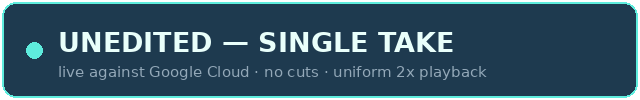
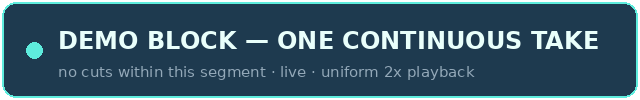
fix(grabacion): el rotulo deja de decir UNEDITED — lo tumbo el disidente y tenia razon
'UNEDITED' es una afirmacion ABSOLUTA puesta sobre un video cuyo envoltorio si esta
editado. Un jurado adversarial lee la palabra grande, ve un fundido dos minutos despues,
y la defensa se vuelve acusacion. Ahora dice DEMO BLOCK — ONE CONTINUOUS TAKE.

Y acelerar deja de ser el primer recurso: comprimir la espera destruye la prueba que esa
espera aporta. Primero se recorta el envoltorio, luego contenido; acelerar es el tercero.
Nueva §5.2: mostrar, no proclamar — proyecto, region y reloj visibles en pantalla.

Claude-Session: https://claude.ai/code/session_01Adjgsd6F8n8EyAgaKZ5oZC

Changed region(s): [[0.0938, 0.3, 0.9375, 0.54], [0.0938, 0.66, 0.7812, 0.81]]

diff --git a/assets/slides/generar_rotulos.py b/assets/slides/generar_rotulos.py
@@ -43,17 +43,34 @@ def rotulo(destino: Path, titulo: str, pie: str) -> None:
     d.rounded_rectangle([2, 2, ANCHO - 3, ALTO - 3], radius=14, fill=FONDO, outline=BORDE, width=2)
     # El punto de grabación: lo mismo que enseña cualquier cámara, y se lee sin idioma.
     d.ellipse([26, 42, 42, 58], fill=BORDE)
-    d.text((58, 26), titulo, font=ImageFont.truetype(NEGRITA, 27), fill=TITULO)
-    d.text((58, 63), pie, font=ImageFont.truetype(NORMAL, 15), fill=PIE)
+    # El cuerpo se ajusta al ancho disponible en vez de fijarse: al cambiar el texto del rótulo
+    # por uno más largo, el título se salía de la caja y la última palabra quedaba cortada en
+    # cámara. Un rótulo recortado dice justo lo contrario de lo que el rótulo viene a decir.
+    def cabe(texto, ruta, tope, maximo):
+        for cuerpo in range(maximo, 8, -1):
+            f = ImageFont.truetype(ruta, cuerpo)
+            if d.textlength(texto, font=f) <= tope:
+                return f
+        return ImageFont.truetype(ruta, 9)
+
+    disponible = ANCHO - 58 - 20
+    d.text((58, 26), titulo, font=cabe(titulo, NEGRITA, disponible, 27), fill=TITULO)
+    d.text((58, 63), pie, font=cabe(pie, NORMAL, disponible, 15), fill=PIE)
     im.save(destino)
     print(f"  {destino.name}  ({ANCHO}×{ALTO})  «{titulo}» · «{pie}»")
 
 
 if __name__ == "__main__":
     v = sys.argv[1] if len(sys.argv) > 1 else "2"
+    # POR QUÉ NO DICE «UNEDITED», que es lo que decía hasta el 2026-08-30. Lo tumbó el disidente
+    # externo, y tenía razón: es una afirmación ABSOLUTA colocada sobre un vídeo cuyo envoltorio
+    # —títulos, diagrama, fundidos— sí está editado. Un jurado adversarial no lee el matiz «no
+    # cuts INSIDE this block»: lee la palabra grande, ve un fundido dos minutos después, y la
+    # defensa se convierte en una acusación contra uno mismo. El rótulo ahora dice exactamente
+    # qué cubre —este bloque— y deja de proclamar lo que no puede prometer del vídeo entero.
     rotulo(AQUI / "rotulo_toma_unica.png",
-           "UNEDITED — SINGLE TAKE",
-           "live against Google Cloud · no cuts inside this block")
+           "DEMO BLOCK — ONE CONTINUOUS TAKE",
+           "no cuts within this segment · live against Google Cloud")
     rotulo(AQUI / "rotulo_toma_unica_acelerado.png",
-           "UNEDITED — SINGLE TAKE",
-           f"live against Google Cloud · no cuts · uniform {v}x playback")
+           "DEMO BLOCK — ONE CONTINUOUS TAKE",
+           f"no cuts within this segment · live · uniform {v}x playback")

diff --git a/RUNBOOK_GRABACION.md b/RUNBOOK_GRABACION.md
@@ -204,6 +204,9 @@ bash demo.sh 3
 
 - **El paso 6 agota los 90 segundos.** El despertador corre cada quince minutos; si acaba de
   pasar, la reanudación tarda. Repite la toma, no la edites.
+- **El `403` no sale.** Compruébalo a demanda **antes** de apostar el vídeo a una sola toma:
+  `curl -s -X POST -H "Authorization: Bearer $(gcloud auth print-identity-token)" "$URL/intentar-suplantar"`.
+  Si no es reproducible ahora, no lo será en cámara.
 - **Sale un correo o una ruta del disco.** Corta y repite: `/decidir` ya devuelve solo el dominio,
   pero este dato ha reaparecido tres veces en sitios distintos.
 - **`PET-002` ya estaba cerrada** (por el ensayo). Vuelve a sembrar.
@@ -236,11 +239,25 @@ minutos, el organizador contestó — respuesta de *Shawni Dev*, manager, aporta
 
 | Con las esperas | ¿Permitido? | Qué hacer |
 |---|---|---|
-| Dejarlas a 1× | **Sí**, es lo más seguro | rótulo `rotulo_toma_unica.png` |
-| **Acelerar el bloque entero, uniforme** | **Sí**, con aviso en pantalla | rótulo `rotulo_toma_unica_acelerado.png` |
+| Dejarlas a 1× | **Sí**, y es lo que hay que intentar primero | rótulo `rotulo_toma_unica.png` |
+| **Acelerar el bloque entero, uniforme** | Sí, **pero como último recurso** | rótulo `rotulo_toma_unica_acelerado.png` |
 | Corte de salto para saltarse el sondeo | **NO** | es un corte: rompe «unedited» |
 | Unir dos intentos de la misma toma | **NO** | es un empalme |
 | Acelerar solo la parte aburrida | **NO** | no es uniforme |
+
+**El orden para no pasarse de cuatro minutos, y no es el que parece.** Un disidente de otro
+linaje tumbó el plan anterior con un argumento que se acoge entero: *acelerar la espera destruye
+justamente la prueba que esa espera aporta*. La espera existe para enseñar que el trabajo se
+reanuda solo; comprimida, un jurado escéptico ya no distingue una espera real de un empalme. Y
+la respuesta del organizador dice «**generalmente** se interpreta» — es una tolerancia, no una
+garantía. Así que:
+
+1. **Recorta el envoltorio.** Títulos, diagrama, cierre. Ahí sobra tiempo y editar está permitido.
+2. **Recorta contenido de la demostración** —un paso menos, un objetivo más pequeño—, que sigue
+   siendo honesto.
+3. **Solo entonces, acelera**, y el bloque entero.
+
+Si la demostración a velocidad real no cabe, **el problema es de guion, no de velocidad**.
 
 **Cómo acelerar sin equivocarse** — un solo comando sobre el bloque entero, nunca sobre un trozo:
 
@@ -263,6 +280,29 @@ ffmpeg -sseof -3 -i toma3_2x.mp4 -frames:v 1 fin.png   # y míralos
 Y el rótulo tiene que decirlo. **Usar el rótulo de 1× sobre metraje acelerado sería afirmar algo
 falso justo encima de la única parte del vídeo cuyo valor entero es que se puede creer.** Los dos
 rótulos se regeneran con `python3 assets/slides/generar_rotulos.py <velocidad>`.
+
+**Comprueba que los registros siguen leyéndose después de acelerar.** El criterio que se puntúa
+nombra literalmente *terminal logs*: unos registros que pasan demasiado rápido para leerse dejan
+de ser prueba de nada. Si a 2× no se leen, ese bloque no se acelera.
+
+### 5.2 Mostrar, no proclamar
+
+El rótulo **ya no dice «UNEDITED»**, y el cambio vino de un ataque que se acoge: era una
+afirmación **absoluta** puesta sobre un vídeo cuyo envoltorio sí está editado. Un jurado
+adversarial no lee el matiz «no cuts *inside this block*» — lee la palabra grande, ve un fundido
+dos minutos después, y la defensa se vuelve una acusación contra uno mismo. Ahora dice
+**`DEMO BLOCK — ONE CONTINUOUS TAKE`**, que delimita lo que promete.
+
+Y como la honestidad se enseña mejor de lo que se declara, **que estas tres cosas estén en
+pantalla durante la demostración**, que además son lo que la regla formal exige ver:
+
+- **El identificador del proyecto y la región** de Google Cloud, en el símbolo del sistema o en
+  la propia salida (`ai-transf-lab-0827`, `us-central1`).
+- **Un reloj visible** —el de la barra del sistema basta— durante la espera. Es lo que convierte
+  el paso del tiempo en algo comprobable en vez de en algo afirmado.
+- **Los registros corriendo**, no una pantalla quieta.
+
+Con eso, el rótulo pasa de ser la prueba a ser un rótulo, que es lo que debe ser.
 
 **Repite también el aviso en la descripción del vídeo**, que es lo que el organizador pidió «para
 mayor seguridad»: *“The demo block is a single continuous run, played back at a uniform 2×. No
